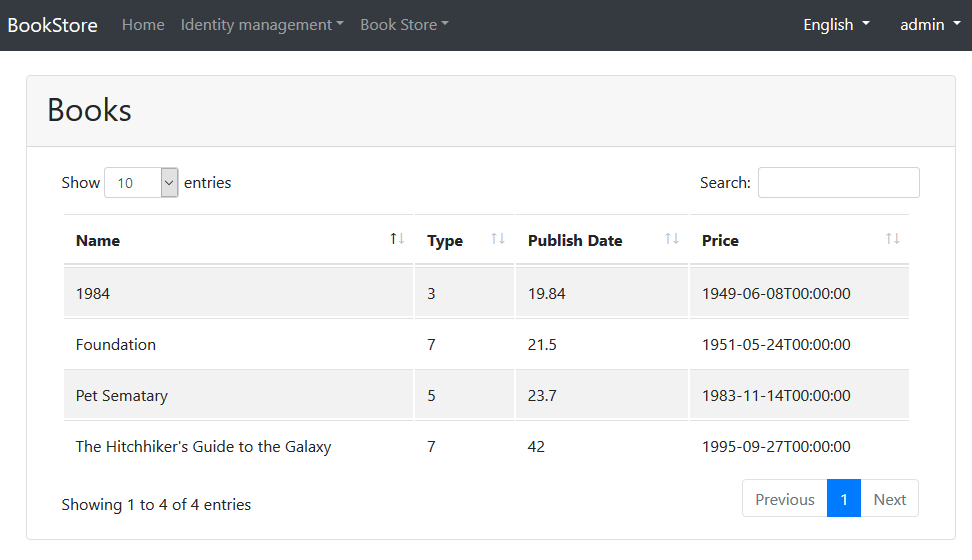
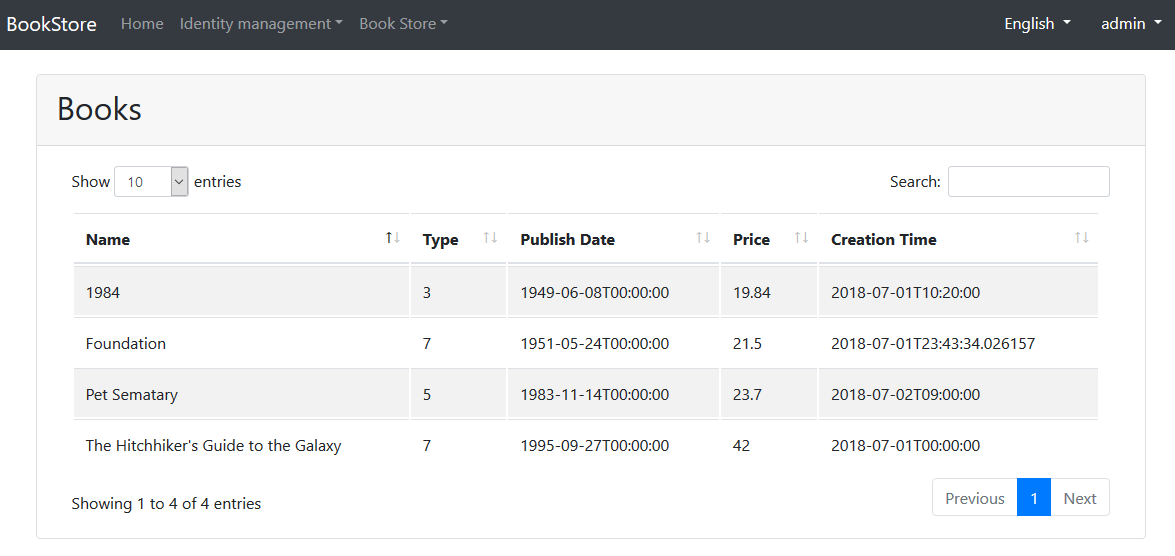
Revised book store

diff --git a/samples/BookStore/src/Acme.BookStore.Web/wwwroot/pages/books/index.js b/samples/BookStore/src/Acme.BookStore.Web/wwwroot/pages/books/index.js
@@ -12,11 +12,15 @@
             },
             {
                 targets: 2,
-                data: "price"
+                data: "publishDate"
             },
             {
                 targets: 3,
-                data: "publishDate"
+                data: "price"
+            },
+            {
+                targets: 4,
+                data: "creationTime"
             }
         ]
     });

diff --git a/samples/BookStore/src/Acme.BookStore.Web/Pages/Books/CreateModal.cshtml.cs b/samples/BookStore/src/Acme.BookStore.Web/Pages/Books/CreateModal.cshtml.cs
@@ -1,5 +1,3 @@
-using System;
-using System.ComponentModel.DataAnnotations;
 using System.Threading.Tasks;
 using Microsoft.AspNetCore.Mvc;
 using Volo.Abp.AspNetCore.Mvc.UI.RazorPages;
@@ -9,7 +7,7 @@ namespace Acme.BookStore.Pages.Books
     public class CreateModalModel : AbpPageModel
     {
         [BindProperty]
-        public CreateBookViewModel Book { get; set; }
+        public CreateUpdateBookDto Book { get; set; }
 
         private readonly IBookAppService _bookAppService;
 
@@ -20,29 +18,8 @@ namespace Acme.BookStore.Pages.Books
 
         public async Task<IActionResult> OnPostAsync()
         {
-            ValidateModel();
-
-            var bookDto = ObjectMapper.Map<CreateBookViewModel, BookDto>(Book);
-            await _bookAppService.CreateAsync(bookDto);
-
+            await _bookAppService.CreateAsync(Book);
             return NoContent();
-        }
-
-        public class CreateBookViewModel
-        {
-            [Required]
-            [StringLength(128)]
-            [Display(Name = "Name")]
-            public string Name { get; set; }
-
-            [Display(Name = "Type")]
-            public BookType Type { get; set; } = BookType.Undefined;
-
-            [Display(Name = "PublishDate")]
-            public DateTime PublishDate { get; set; }
-
-            [Display(Name = "Price")]
-            public float Price { get; set; }
         }
     }
 }

diff --git a/samples/BookStore/src/Acme.BookStore.EntityFrameworkCore/Migrations/20180701195241_Initial.Designer.cs b/samples/BookStore/src/Acme.BookStore.EntityFrameworkCore/Migrations/20180701195241_Initial.Designer.cs
@@ -1,25 +1,24 @@
 // <auto-generated />
 using System;
-using System.Collections.Generic;
+using Acme.BookStore.EntityFrameworkCore;
 using Microsoft.EntityFrameworkCore;
 using Microsoft.EntityFrameworkCore.Infrastructure;
 using Microsoft.EntityFrameworkCore.Metadata;
-using Microsoft.EntityFrameworkCore.Metadata.Internal;
 using Microsoft.EntityFrameworkCore.Migrations;
 using Microsoft.EntityFrameworkCore.Storage.ValueConversion;
-using Acme.BookStore.EntityFrameworkCore;
 
 namespace Acme.BookStore.Migrations
 {
     [DbContext(typeof(BookStoreDbContext))]
-    [Migration("20180528221424_Initial")]
+    [Migration("20180701195241_Initial")]
     partial class Initial
     {
         protected override void BuildTargetModel(ModelBuilder modelBuilder)
         {
 #pragma warning disable 612, 618
             modelBuilder
-                .HasAnnotation("ProductVersion", "2.1.0-preview2-30571")
+                .HasAnnotation("ProductVersion", "2.1.1-rtm-30846")
+                .HasAnnotation("Relational:MaxIdentifierLength", 128)
                 .HasAnnotation("SqlServer:ValueGenerationStrategy", SqlServerValueGenerationStrategy.IdentityColumn);
 
             modelBuilder.Entity("Volo.Abp.Identity.IdentityRole", b =>

diff --git a/samples/BookStore/src/Acme.BookStore.EntityFrameworkCore/Migrations/20180701195424_Created_Book_Entity.Designer.cs b/samples/BookStore/src/Acme.BookStore.EntityFrameworkCore/Migrations/20180701195424_Created_Book_Entity.Designer.cs
@@ -10,7 +10,7 @@ using Microsoft.EntityFrameworkCore.Storage.ValueConversion;
 namespace Acme.BookStore.Migrations
 {
     [DbContext(typeof(BookStoreDbContext))]
-    [Migration("20180628193337_Created_Book_Entity")]
+    [Migration("20180701195424_Created_Book_Entity")]
     partial class Created_Book_Entity
     {
         protected override void BuildTargetModel(ModelBuilder modelBuilder)
@@ -25,6 +25,14 @@ namespace Acme.BookStore.Migrations
                 {
                     b.Property<Guid>("Id")
                         .ValueGeneratedOnAdd();
+
+                    b.Property<DateTime>("CreationTime");
+
+                    b.Property<Guid?>("CreatorId");
+
+                    b.Property<DateTime?>("LastModificationTime");
+
+                    b.Property<Guid?>("LastModifierId");
 
                     b.Property<string>("Name")
                         .IsRequired()

diff --git a/samples/BookStore/src/Acme.BookStore.Application/BookStoreApplicationModule.cs b/samples/BookStore/src/Acme.BookStore.Application/BookStoreApplicationModule.cs
@@ -1,6 +1,7 @@
 using Microsoft.Extensions.DependencyInjection;
 using Acme.BookStore.Permissions;
 using Volo.Abp.Authorization.Permissions;
+using Volo.Abp.AutoMapper;
 using Volo.Abp.Identity;
 using Volo.Abp.Modularity;
 
@@ -16,6 +17,11 @@ namespace Acme.BookStore
             services.Configure<PermissionOptions>(options =>
             {
                 options.DefinitionProviders.Add<BookStorePermissionDefinitionProvider>();
+            });
+
+            services.Configure<AbpAutoMapperOptions>(options =>
+            {
+                options.AddProfile<BookStoreApplicationAutoMapperProfile>();
             });
 
             services.AddAssemblyOf<BookStoreApplicationModule>();

diff --git a/samples/BookStore/src/Acme.BookStore.EntityFrameworkCore/Migrations/20180701195424_Created_Book_Entity.cs b/samples/BookStore/src/Acme.BookStore.EntityFrameworkCore/Migrations/20180701195424_Created_Book_Entity.cs
@@ -12,6 +12,10 @@ namespace Acme.BookStore.Migrations
                 columns: table => new
                 {
                     Id = table.Column<Guid>(nullable: false),
+                    CreationTime = table.Column<DateTime>(nullable: false),
+                    CreatorId = table.Column<Guid>(nullable: true),
+                    LastModificationTime = table.Column<DateTime>(nullable: true),
+                    LastModifierId = table.Column<Guid>(nullable: true),
                     Name = table.Column<string>(maxLength: 128, nullable: false),
                     Type = table.Column<byte>(nullable: false),
                     PublishDate = table.Column<DateTime>(nullable: false),

diff --git a/samples/BookStore/src/Acme.BookStore.Application/BookAppService.cs b/samples/BookStore/src/Acme.BookStore.Application/BookAppService.cs
@@ -1,12 +1,16 @@
 using System;
+using Volo.Abp.Application.Dtos;
 using Volo.Abp.Application.Services;
 using Volo.Abp.Domain.Repositories;
 
 namespace Acme.BookStore
 {
-    public class BookAppService : AsyncCrudAppService<Book, BookDto, Guid>,IBookAppService
+    public class BookAppService :
+        AsyncCrudAppService<Book, BookDto, Guid, PagedAndSortedResultRequestDto,
+            CreateUpdateBookDto, CreateUpdateBookDto>,
+        IBookAppService
     {
-        public BookAppService(IRepository<Book, Guid> repository) 
+        public BookAppService(IRepository<Book, Guid> repository)
             : base(repository)
         {
 

diff --git a/samples/BookStore/src/Acme.BookStore.Application/IBookAppService.cs b/samples/BookStore/src/Acme.BookStore.Application/IBookAppService.cs
@@ -1,9 +1,16 @@
 using System;
+using Volo.Abp.Application.Dtos;
 using Volo.Abp.Application.Services;
 
 namespace Acme.BookStore
 {
-    public interface IBookAppService : IAsyncCrudAppService<BookDto, Guid>
+    public interface IBookAppService : 
+        IAsyncCrudAppService< //Defines CRUD methods
+            BookDto, //Used to show books
+            Guid, //Primary key of the book entity
+            PagedAndSortedResultRequestDto, //Used for paging/sorting on getting a list of books
+            CreateUpdateBookDto, //Used to create a new book
+            CreateUpdateBookDto> //Used to update a book
     {
 
     }

diff --git a/samples/BookStore/src/Acme.BookStore.Application/CreateUpdateBookDto.cs b/samples/BookStore/src/Acme.BookStore.Application/CreateUpdateBookDto.cs
@@ -1,0 +1,24 @@
+using System;
+using System.ComponentModel.DataAnnotations;
+using Volo.Abp.AutoMapper;
+
+namespace Acme.BookStore
+{
+    [AutoMapTo(typeof(Book))]
+    public class CreateUpdateBookDto
+    {
+        [Required]
+        [StringLength(128)]
+        [Display(Name = "Name")]
+        public string Name { get; set; }
+
+        [Display(Name = "Type")]
+        public BookType Type { get; set; } = BookType.Undefined;
+
+        [Display(Name = "PublishDate")]
+        public DateTime PublishDate { get; set; }
+
+        [Display(Name = "Price")]
+        public float Price { get; set; }
+    }
+}

diff --git a/samples/BookStore/src/Acme.BookStore.EntityFrameworkCore/Migrations/BookStoreDbContextModelSnapshot.cs b/samples/BookStore/src/Acme.BookStore.EntityFrameworkCore/Migrations/BookStoreDbContextModelSnapshot.cs
@@ -24,6 +24,14 @@ namespace Acme.BookStore.Migrations
                     b.Property<Guid>("Id")
                         .ValueGeneratedOnAdd();
 
+                    b.Property<DateTime>("CreationTime");
+
+                    b.Property<Guid?>("CreatorId");
+
+                    b.Property<DateTime?>("LastModificationTime");
+
+                    b.Property<Guid?>("LastModifierId");
+
                     b.Property<string>("Name")
                         .IsRequired()
                         .HasMaxLength(128);

diff --git a/samples/BookStore/src/Acme.BookStore.Application/BookDto.cs b/samples/BookStore/src/Acme.BookStore.Application/BookDto.cs
@@ -1,13 +1,12 @@
 using System;
-using System.ComponentModel.DataAnnotations;
 using Volo.Abp.Application.Dtos;
+using Volo.Abp.AutoMapper;
 
 namespace Acme.BookStore
 {
-    public class BookDto : EntityDto<Guid>
+    [AutoMapFrom(typeof(Book))]
+    public class BookDto : AuditedEntityDto<Guid>
     {
-        [Required]
-        [StringLength(128)]
         public string Name { get; set; }
 
         public BookType Type { get; set; }

diff --git a/samples/BookStore/src/Acme.BookStore.Domain/Book.cs b/samples/BookStore/src/Acme.BookStore.Domain/Book.cs
@@ -1,12 +1,12 @@
 using System;
 using System.ComponentModel.DataAnnotations;
 using System.ComponentModel.DataAnnotations.Schema;
-using Volo.Abp.Domain.Entities;
+using Volo.Abp.Domain.Entities.Auditing;
 
 namespace Acme.BookStore
 {
     [Table("Books")]
-    public class Book : AggregateRoot<Guid>
+    public class Book : AuditedAggregateRoot<Guid>
     {
         [Required]
         [StringLength(128)]
